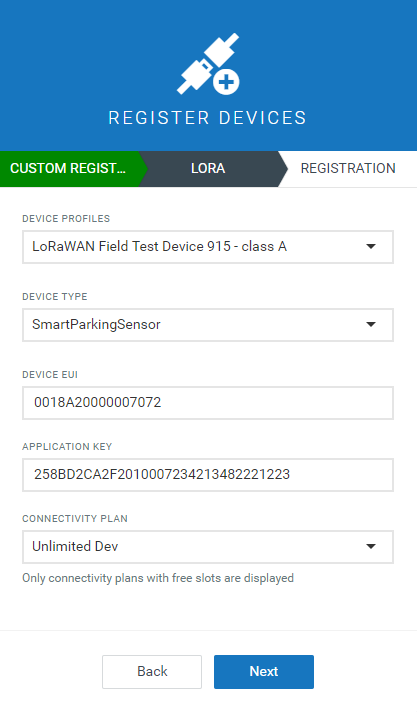
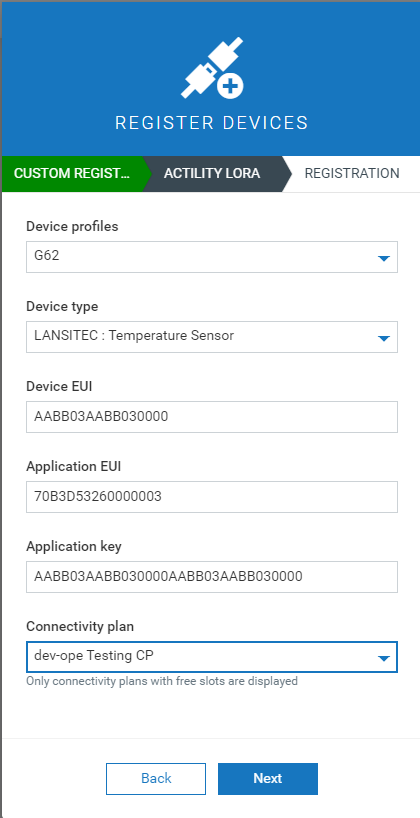
Actility Application EUI moved to Device Registration page from connectivity settings page

diff --git a/content/protocol-integration/lora-actility-bundle/configure-credentials.md b/content/protocol-integration/lora-actility-bundle/configure-credentials.md
@@ -1,6 +1,6 @@
 ---
 weight: 20
-title: Configuring ThingPark account credentials and application EUI
+title: Configuring ThingPark account credentials
 layout: redirect
 ---
 
@@ -9,7 +9,7 @@ Before using LoRa devices with {{< product-c8y-iot >}}, you need to configure yo
 
 ### <a name="create-new-credentials">Creating new account credentials</a>
 
-If you select **Connectivity** for the first time, you are asked to provide the Actility ThingPark URL, credentials and application EUI which is used for LoRa device provisioning.
+If you select **Connectivity** for the first time, you are asked to provide the Actility ThingPark URL and credentials which is used for LoRa device provisioning.
 
 Enter the following information:
 
@@ -17,7 +17,6 @@ Enter the following information:
 - **Profile ID**: This depends on your ThingPark account and environment. If you are using, for example, the Dev1 ThingPark environment your profile ID will be "dev1-api". Multiple tenants can have the same profile ID.
 - **Username**: Your ThingPark username.
 - **Password**: Your ThingPark password.
-- **Application EUI**: This is a global application ID in the IEEE EUI64 address space that uniquely identifies the application provider of the device. It is a 16 character (8 byte) long hexadecimal number. There can be only one application EUI for a tenant but multiple tenants can have the same application EUI.
 
 Do not use the same ThingPark login (username and password) for other tenants.
 The profile ID, username and password are used to retrieve an access token to send further requests to the ThingPark platform. It is possible to renew the access token by replacing the account credentials.
@@ -31,7 +30,7 @@ Click **Save connectivity settings**. If you have entered the correct informatio
 
 In order to update your connectivity settings, go to the Administration and click **Update connectivity settings** in the **Settings** menu.
 
-Enter your Actility ThingPark URL, profile ID, username, password and application EUI as requested. For details on these information see [Creating new account credentials](#create-new-credentials).
+Enter your Actility ThingPark URL, profile ID, username and password as requested. For details on these information see [Creating new account credentials](#create-new-credentials).
 
 ![Update connectivity settings](/images/device-protocols/lora-actility/lora-admin-settings-update.png)
 

diff --git a/content/protocol-integration/lora-actility-bundle/register-device.md b/content/protocol-integration/lora-actility-bundle/register-device.md
@@ -21,6 +21,7 @@ In the next window fill in the required information:
     The Actility ThingPark device profile allows to manage multi-RF profiles, ensures different LoRaWAN class compatibility (A, B or C) and allows application payload decoding for easy third-party application integration.
 - **Device protocol**: Select the appropriate device protocol from the dropdown list. For more information on how to create a device protocol refer to [Creating device protocols](#create-device-protocols).
 - **Device EUI**: This is the unique identifier for the device. It is a 16 character (8 byte) long hexadecimal number. You can find it on the device itself.
+- **Application EUI**: This is a global application ID in the IEEE EUI64 address space that uniquely identifies the application provider of the device. It is a 16 character (8 byte) long hexadecimal number. There can be only one application EUI for a tenant but multiple tenants can have the same application EUI.
 - **Application key**: This is an AES-128 application key specific for the device that is assigned to the device by the application owner and is responsible to encrypt. The application key is a 32 character (16 byte) long hexadecimal number.
 JOIN communication. You can find this key on the device itself.
 - **Connectivity plan**: Select the appropriate connectivity plan from the dropdown list.
